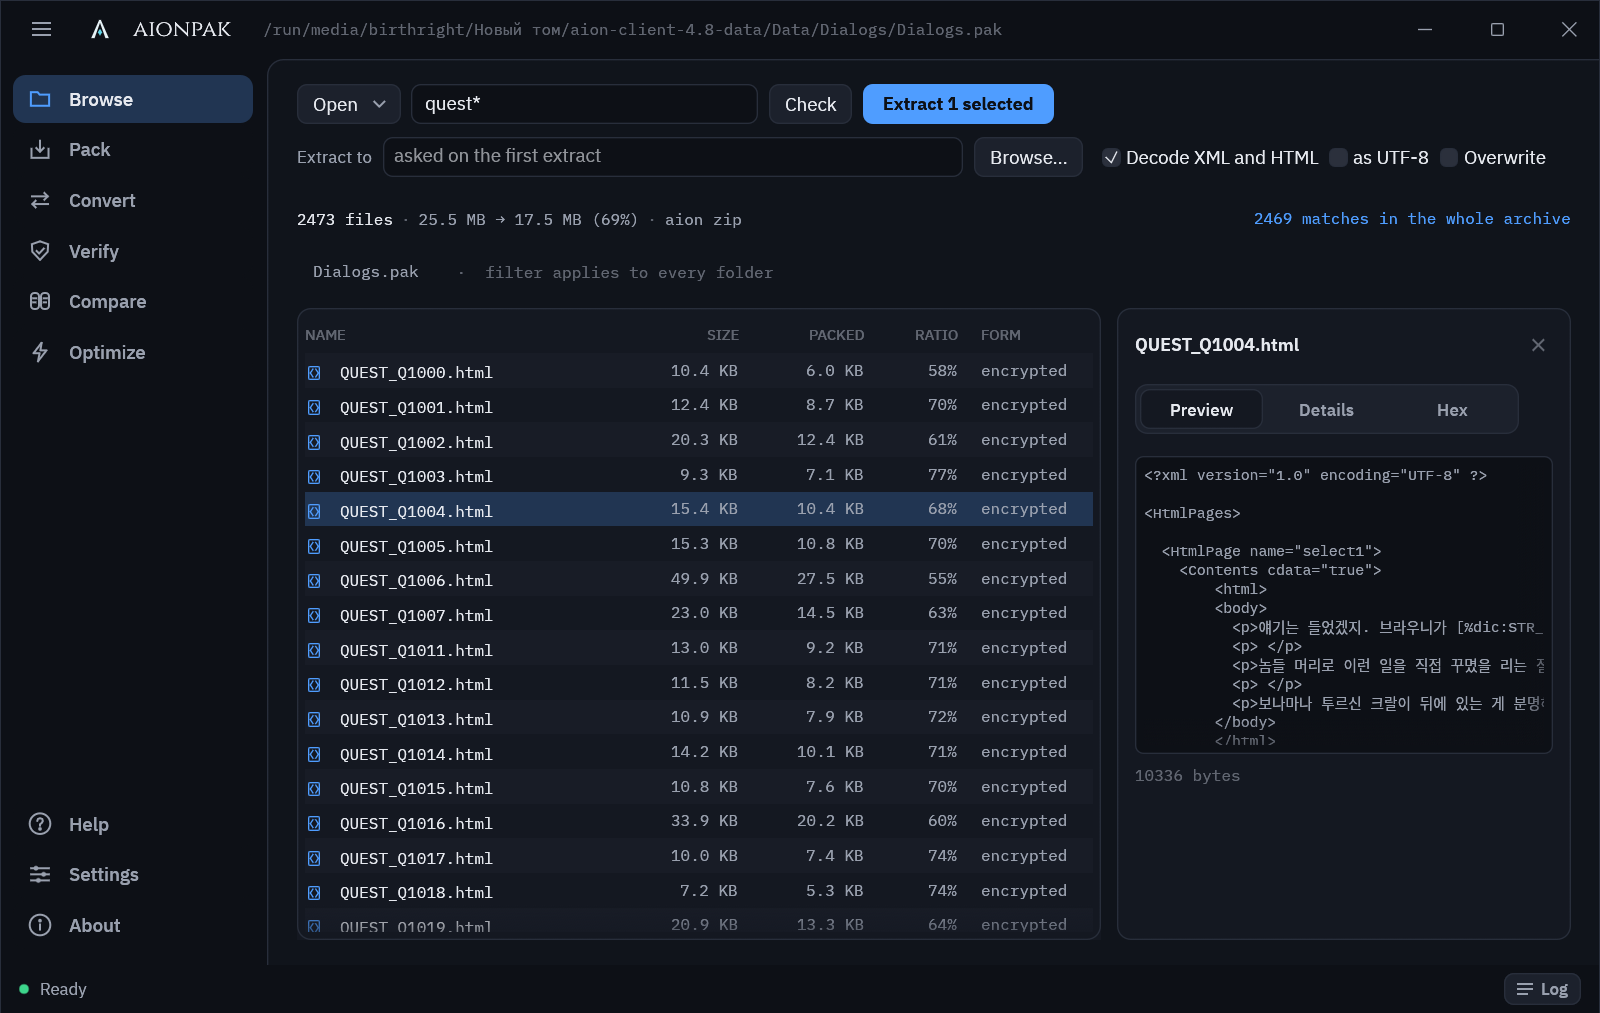
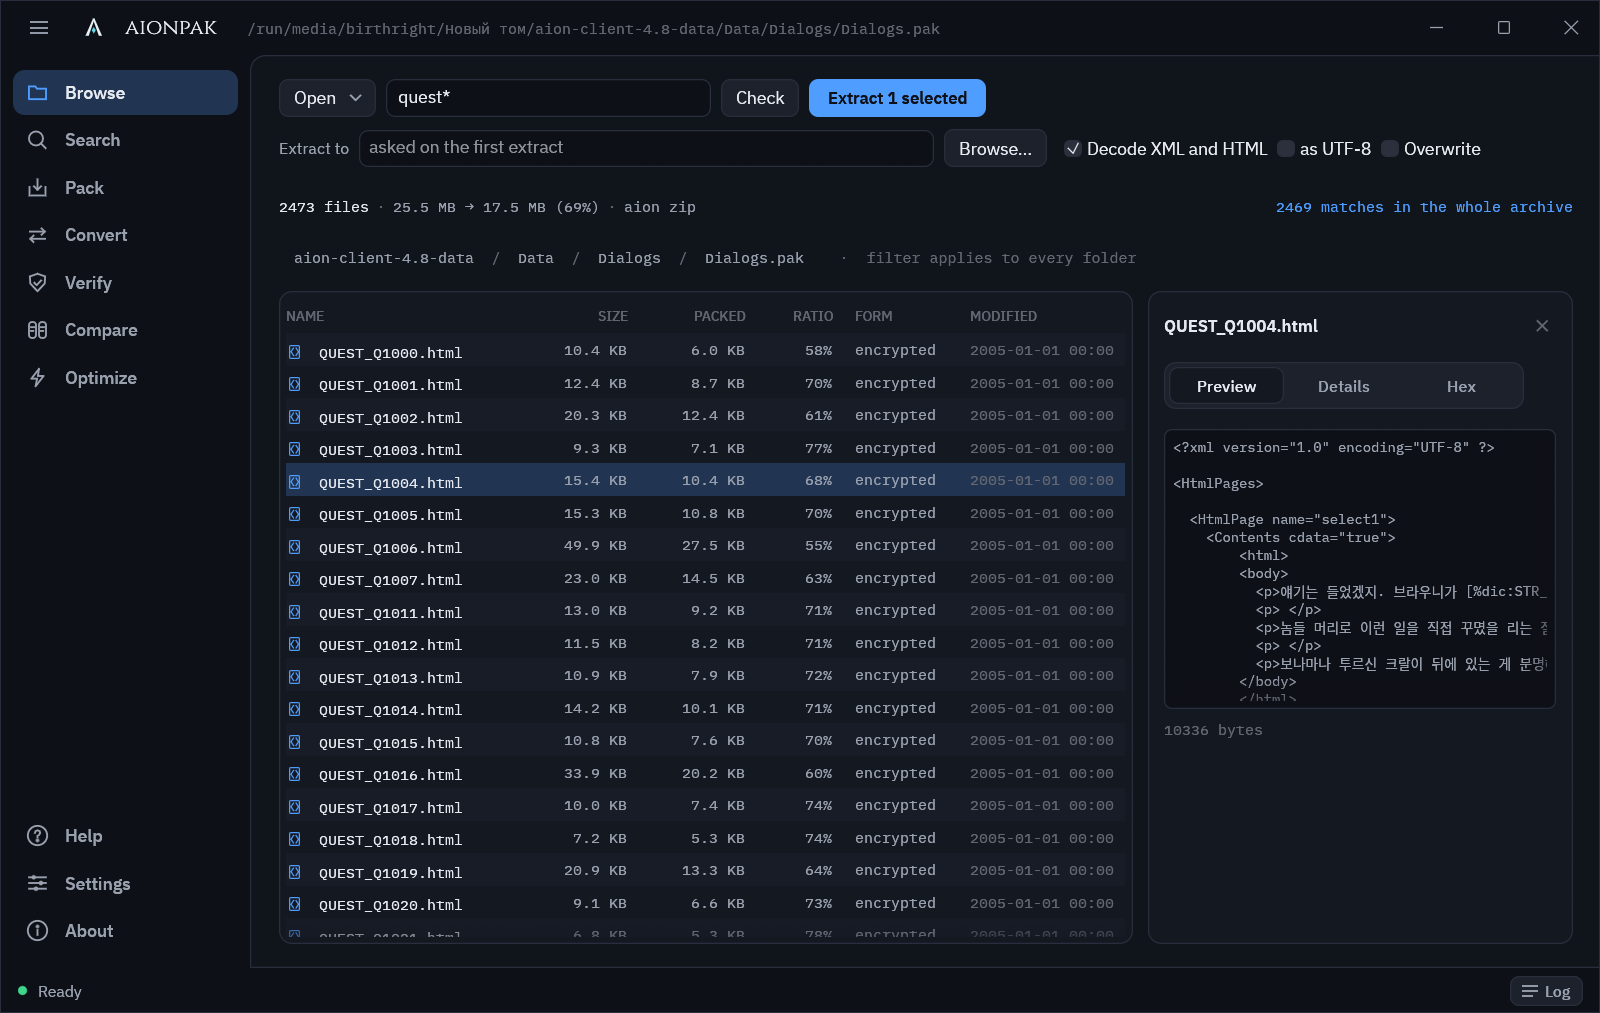
Update the screenshots and add one of Search
Taken at 1.25 scale on the 4.8 client, as before.

diff --git a/README.md b/README.md
@@ -46,6 +46,12 @@ the same way. The game ignores it.
 
 <img src="assets/screenshots/pack-light.png" width="820" alt="The Pack screen in the light theme">
 
+To find where something is defined, open **Search**, choose the client folder and type the text. Every line that
+has it is listed by archive and file; click one to see the file in Browse, or right-click it to open the file in
+your editor.
+
+<img src="assets/screenshots/search-dark.png" width="820" alt="The Search screen listing the lines of the client's XML that mention Kaisinel">
+
 ## Good to know
 
 - **Windows may warn** "Windows protected your PC" on the first start, as the program is not code-signed yet.
@@ -64,8 +70,8 @@ aionpak extract Data/skills/skills.pak -o skills -d     # unpack, XML as text
 aionpak pack    skills -o Data/skills/skills.pak        # pack it back
 ```
 
-The commands are `list`, `extract`, `pack`, `repack`, `decode`, `encode`, `search`, `verify`, `compare` and `optimize`;
-`aionpak <command> --help` explains each with an example. For servers and scripts, Releases also carry
+The commands are `list`, `extract`, `pack`, `repack`, `decode`, `encode`, `search`, `verify`, `compare` and
+`optimize`; `aionpak <command> --help` explains each with an example. For servers and scripts, Releases also carry
 `aionpak-cli`, the same without the window.
 
 ## Building
